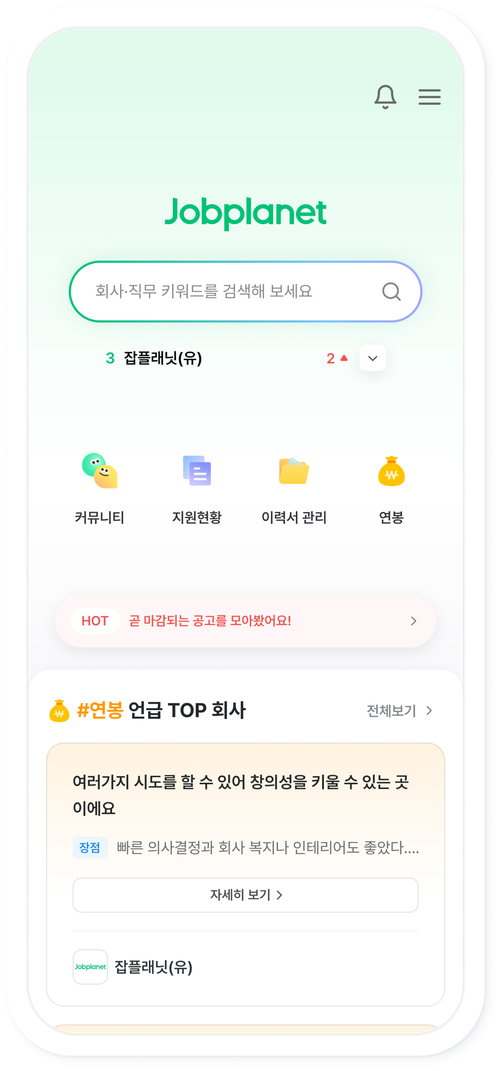
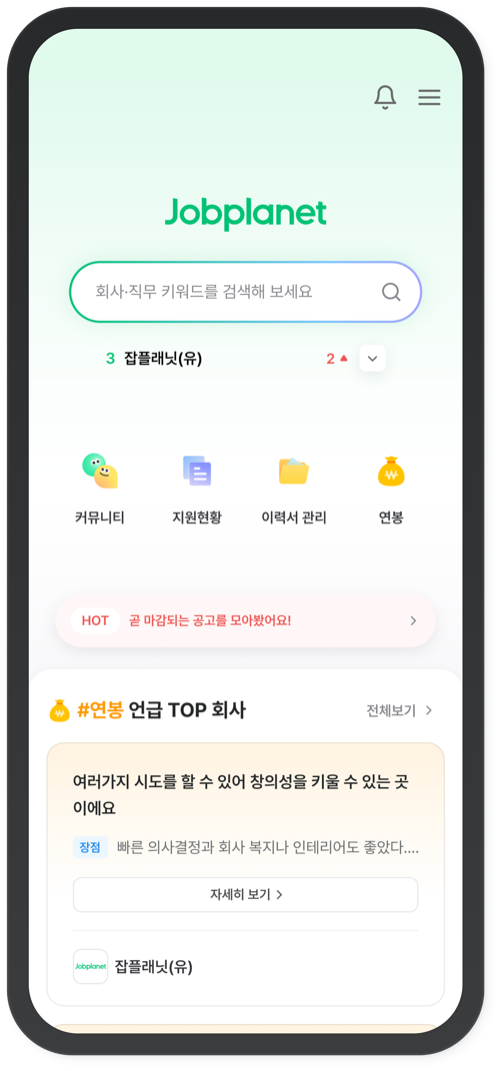
잡플래닛: 히어로 스탯 가독성 개선, 모바일 대표 화면 교체, 부록 아코디언 분리
- hero-stat 숫자 폰트 축소 + 라벨 간격 확대
- 히어로 모바일 대표 화면을 새 스크린샷으로 교체
- 최종 디자인 주석 섹션 하단에 그라데이션 페이드 추가, 배포일자 캡션 제거
- 결과 지표에서 대외비 raw count 제거, 전/후 %·%p만 표기
- 부록 1~4(공고 카드·모듈 정책·JDS)를 접이식 아코디언으로 분리해 메인 프로젝트와 시각적으로 구분

diff --git a/projects/jobplanet.html b/projects/jobplanet.html
@@ -376,7 +376,7 @@
       </div>
     </div>
 
-    <p style="font-size:12px; color:var(--t3); text-align:center; margin-top:8px;">2026-07-08 배포 · 웹 홈 실제 화면</p>
+    <p style="font-size:12px; color:var(--t3); text-align:center; margin-top:8px;">웹 홈 실제 화면</p>
 
     <div class="card-grid cols-3" style="margin-top:48px;">
       <div>
@@ -404,8 +404,8 @@
     <h2>가설의 형태는 틀렸지만, 방향은 맞았다</h2>
 
     <div class="stat-row">
-      <div class="stat"><div class="num accent">+51.7%</div><div class="label">지원 시도</div><div class="sub">3,618건 <svg class="arrow-ico" viewBox="0 0 16 16" fill="none" xmlns="http://www.w3.org/2000/svg"><path d="M3 8h10M9 4l4 4-4 4" stroke="currentColor" stroke-width="1.6" stroke-linecap="round" stroke-linejoin="round"/></svg> 5,488건 (WoW)</div></div>
-      <div class="stat"><div class="num accent">+28.4%</div><div class="label">공고 PV</div><div class="sub">120,639 <svg class="arrow-ico" viewBox="0 0 16 16" fill="none" xmlns="http://www.w3.org/2000/svg"><path d="M3 8h10M9 4l4 4-4 4" stroke="currentColor" stroke-width="1.6" stroke-linecap="round" stroke-linejoin="round"/></svg> 154,954 (5주 연속)</div></div>
+      <div class="stat"><div class="num accent">+51.7%</div><div class="label">지원 시도</div><div class="sub">전주 대비(WoW)</div></div>
+      <div class="stat"><div class="num accent">+28.4%</div><div class="label">공고 PV</div><div class="sub">5주 연속 상승</div></div>
       <div class="stat"><div class="num accent">+5.6%p</div><div class="label">조회 커버리지</div><div class="sub">39.4% <svg class="arrow-ico" viewBox="0 0 16 16" fill="none" xmlns="http://www.w3.org/2000/svg"><path d="M3 8h10M9 4l4 4-4 4" stroke="currentColor" stroke-width="1.6" stroke-linecap="round" stroke-linejoin="round"/></svg> 45.0%</div></div>
     </div>
     <p style="font-size:12px; color:var(--t3);">※ 같은 기간 배포된 GNB·공고 카드 개편과 누적 효과이며, 활성 공고 수는 오히려 -1.8% 감소한 상태에서 나온 수치라 순수 수요 개선으로 해석합니다.</p>
@@ -487,21 +487,21 @@
         </tbody>
       </table>
       </div>
-      <p style="font-size:12px; margin-top:10px;">전 디바이스에서 리뷰 탭 &gt; 공고 탭. 웹에서는 리뷰 탭이 GNB 전체 클릭 1위(9,046명, 로고 클릭 8,567명보다 높음).</p>
+      <p style="font-size:12px; margin-top:10px;">전 디바이스에서 리뷰 탭 &gt; 공고 탭. 웹에서는 리뷰 탭이 GNB 전체 클릭 1위(로고 클릭보다 높음).</p>
     </div>
 
     <div class="card" style="margin-top:6px;">
       <h3 style="margin-bottom:8px;">리뷰피드(신설) 첫 성과: 인과관계까지 검증</h3>
       <p style="font-size:13px; margin-bottom:6px;">리뷰피드를 본 사람은 하루 리뷰 조회가 <strong style="color:var(--t1);">+2.5~3.1회</strong> 늘었습니다. 위약 검정(배포 없던 구간에 같은 계산을 적용해 0에 가까운지 확인)을 통과한 결과로,
-      기존 리뷰 조회를 잠식한 게 아니라 그 위에 얹힌 증가였습니다. 홈 경유 리뷰 도달률도 82.94% → 84.09%(<strong style="color:var(--t1);">+1.15%p</strong>, 세션 14만 건 기준)로 순증했습니다.</p>
-      <p style="font-size:12px; color:var(--t3);">다만 리뷰피드에 닿은 인원이 활성 유저 중 일부(약 8천 명)라 서비스 전체 리뷰량은 아직 그대로이고, 공고 조회·지원은 배포 전부터 있던 상승 추세의 연장선이라 개편만의 효과로 보기는 이릅니다. "효과가 없다"가 아니라 "도달이 작다"는 뜻이라, 다음 과제는 리뷰피드 도달 확대입니다.</p>
+      기존 리뷰 조회를 잠식한 게 아니라 그 위에 얹힌 증가였습니다. 홈 경유 리뷰 도달률도 82.94% → 84.09%(<strong style="color:var(--t1);">+1.15%p</strong>)로 순증했습니다.</p>
+      <p style="font-size:12px; color:var(--t3);">다만 리뷰피드에 닿은 인원이 활성 유저 중 일부라 서비스 전체 리뷰량은 아직 그대로이고, 공고 조회·지원은 배포 전부터 있던 상승 추세의 연장선이라 개편만의 효과로 보기는 이릅니다. "효과가 없다"가 아니라 "도달이 작다"는 뜻이라, 다음 과제는 리뷰피드 도달 확대입니다.</p>
     </div>
 
     <div class="card-grid" style="margin-top:6px;">
       <div class="card">
         <h3 style="margin-bottom:6px;">기업 팔로우 추세 (운영 DB 기준)</h3>
         <div style="font-size:22px; font-weight:800; color:var(--t1);">-10%</div>
-        <p style="font-size:12px; margin-top:6px;">배포 후 팔로우 생성 7,601 <svg class="arrow-ico" viewBox="0 0 16 16" fill="none" xmlns="http://www.w3.org/2000/svg"><path d="M3 8h10M9 4l4 4-4 4" stroke="currentColor" stroke-width="1.6" stroke-linecap="round" stroke-linejoin="round"/></svg> 6,841건. 베이스라인 자체가 흔들려 확정적 결론은 아니며, 추세 확인이 더 필요합니다.</p>
+        <p style="font-size:12px; margin-top:6px;">배포 후 팔로우 생성이 감소 추세입니다. 베이스라인 자체가 흔들려 확정적 결론은 아니며, 추세 확인이 더 필요합니다.</p>
       </div>
       <div class="card">
         <h3 style="margin-bottom:6px;">다음 과제</h3>
@@ -520,6 +520,18 @@
 </section>
 
 <div class="glow-line"></div>
+
+<details class="appendix-group">
+  <summary class="appendix-summary">
+    <div class="container appendix-summary-inner">
+      <div class="appendix-summary-main">
+        <span class="appendix-summary-badge">별도 프로젝트 · 부록 4건</span>
+        <span class="appendix-summary-title">공고 카드 개편 · 모듈 정책 · 디자인 시스템</span>
+        <span class="appendix-summary-sub">같은 통합 UT에서 함께 검증했지만, 이 프로젝트와는 담당·배포·의사결정이 분리된 별도 작업입니다. 눌러서 펼쳐보세요.</span>
+      </div>
+      <svg class="appendix-chevron" viewBox="0 0 24 24" fill="none" xmlns="http://www.w3.org/2000/svg"><path d="M6 9l6 6 6-6" stroke="currentColor" stroke-width="2" stroke-linecap="round" stroke-linejoin="round"/></svg>
+    </div>
+  </summary>
 
 <!-- ═══════════════════════════════════ -->
 <!-- 부록 1: 공고 카드 게임 -->
@@ -702,6 +714,8 @@
     </div>
   </div>
 </section>
+
+</details>
 
 <!-- ═══════════════════════════════════ -->
 <!-- 11 후속 개편 이야기 -->

diff --git a/assets/css/site.css b/assets/css/site.css
@@ -137,6 +137,35 @@ section.block.tight { padding: 44px 0; }
 .tint { background: var(--surface); }
 .divider { height: 1px; background: var(--border); border: 0; margin: 0; }
 
+/* ── 부록 아코디언 ── */
+.appendix-group { background: var(--bg-2); border-top: 1px dashed var(--border-strong); }
+.appendix-summary { list-style: none; cursor: pointer; -webkit-tap-highlight-color: transparent; }
+.appendix-summary::-webkit-details-marker { display: none; }
+.appendix-summary::marker { content: ''; }
+.appendix-summary-inner {
+  display: flex; align-items: center; justify-content: space-between; gap: 20px;
+  padding: 28px 24px;
+}
+.appendix-summary-main { display: flex; flex-direction: column; gap: 8px; }
+.appendix-summary-badge {
+  display: inline-flex; align-items: center; width: fit-content;
+  font-size: 11px; font-weight: 800; letter-spacing: .06em; text-transform: uppercase;
+  color: var(--violet); background: rgba(156,140,255,.12); border: 1px solid rgba(156,140,255,.3);
+  padding: 4px 10px; border-radius: 100px;
+}
+.appendix-summary-title { font-size: 18px; font-weight: 800; color: var(--t1); }
+.appendix-summary-sub { font-size: 13px; color: var(--t3); font-weight: 500; max-width: 640px; line-height: 1.6; }
+.appendix-chevron { width: 22px; height: 22px; flex-shrink: 0; color: var(--t3); transition: transform .2s ease; }
+.appendix-summary:hover .appendix-chevron { color: var(--t1); }
+.appendix-group[open] > .appendix-summary .appendix-chevron { transform: rotate(180deg); }
+.appendix-group[open] > .appendix-summary .appendix-summary-inner { border-bottom: 1px solid var(--border); }
+.appendix-group > section.block:first-of-type { padding-top: 44px; }
+.appendix-group > section.block:last-of-type { padding-bottom: 56px; }
+@media (max-width: 640px) {
+  .appendix-summary-inner { padding: 22px 20px; align-items: flex-start; }
+  .appendix-summary-title { font-size: 16px; }
+}
+
 /* ── 히어로 ── */
 .hero { padding: 88px 0 60px; text-align: left; }
 .hero .chips { display: flex; gap: 8px; flex-wrap: wrap; margin-bottom: 24px; }
@@ -193,9 +222,9 @@ section.block.tight { padding: 44px 0; }
 .stat .sub   { font-size: 12px; color: var(--t3); margin-top: 4px; }
 
 /* ── 지표: 히어로 넘버 (핵심 결과 1개 강조) ── */
-.hero-stat { display: flex; align-items: baseline; gap: 16px; flex-wrap: wrap; margin: 8px 0 4px; }
+.hero-stat { display: flex; align-items: baseline; gap: 24px; flex-wrap: wrap; margin: 8px 0 4px; }
 .hero-stat .num {
-  font-size: clamp(52px, 9vw, 92px); font-weight: 900; color: var(--t1); line-height: 1; letter-spacing: -0.03em;
+  font-size: clamp(40px, 7vw, 72px); font-weight: 900; color: var(--t1); line-height: 1; letter-spacing: -0.03em;
   font-variant-numeric: tabular-nums;
 }
 .hero-stat .label { font-size: 15px; font-weight: 600; color: var(--t2); }
@@ -379,6 +408,11 @@ a.card:hover { border-color: rgba(91,147,255,.4); transform: translateY(-2px); }
 }
 .pa-frame img {
   width: 100%; height: auto; display: block;
+}
+.pa-frame::after {
+  content: ''; position: absolute; left: 0; right: 0; bottom: 0; height: 14%;
+  background: linear-gradient(180deg, transparent, var(--surface));
+  pointer-events: none;
 }
 .pa-item {
   position: absolute; width: 240px;
